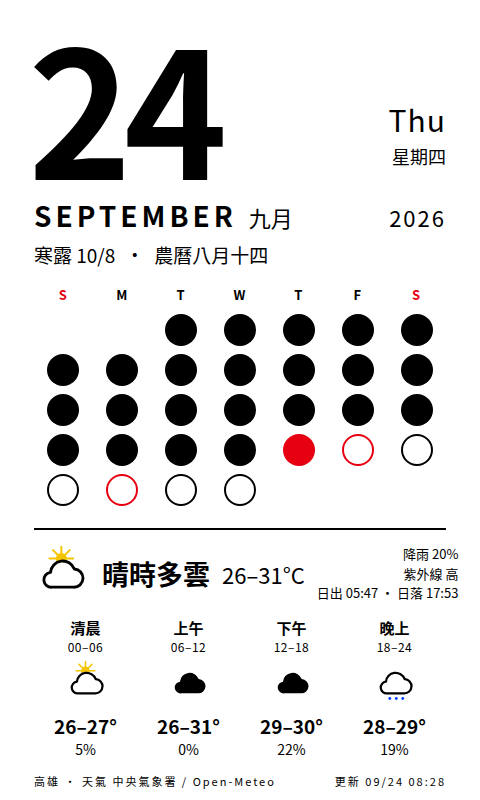
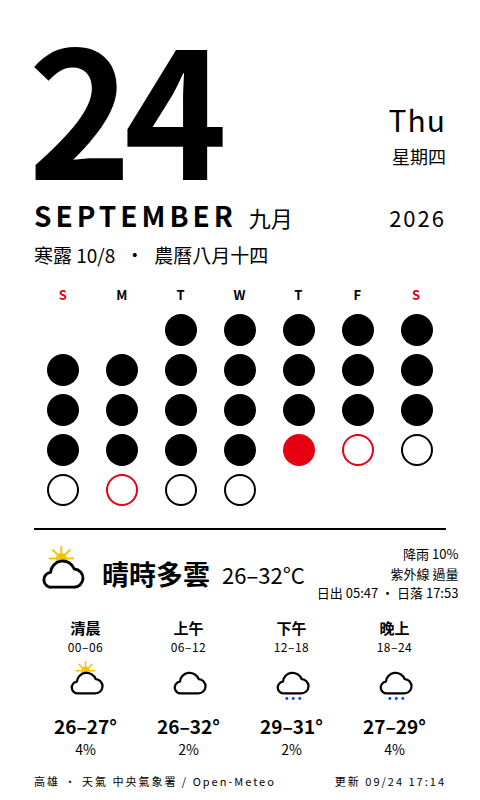
deploy: cf7d1051eb6821bc691ba0ade4beb12cdf9fe0ef

diff --git a/calendar.html b/calendar.html
@@ -54,9 +54,9 @@
   <div class="today"><span class="lunar">寒露 10/8</span><span>·</span><span class="lunar">農曆八月十四</span></div>
   <div class="grid"><div class="h we">S</div><div class="h">M</div><div class="h">T</div><div class="h">W</div><div class="h">T</div><div class="h">F</div><div class="h we">S</div><div class="dot empty"></div><div class="dot empty"></div><div class="dot past" title="1"></div><div class="dot past" title="2"></div><div class="dot past" title="3"></div><div class="dot past" title="4"></div><div class="dot past" title="5"></div><div class="dot past" title="6"></div><div class="dot past" title="7"></div><div class="dot past" title="8"></div><div class="dot past" title="9"></div><div class="dot past" title="10"></div><div class="dot past" title="11"></div><div class="dot past" title="12"></div><div class="dot past" title="13"></div><div class="dot past" title="14"></div><div class="dot past" title="15"></div><div class="dot past" title="16"></div><div class="dot past" title="17"></div><div class="dot past" title="18"></div><div class="dot past" title="19"></div><div class="dot past" title="20"></div><div class="dot past" title="21"></div><div class="dot past" title="22"></div><div class="dot past" title="23"></div><div class="dot now" title="24"></div><div class="dot future hol" title="25"></div><div class="dot future" title="26"></div><div class="dot future" title="27"></div><div class="dot future hol" title="28"></div><div class="dot future" title="29"></div><div class="dot future" title="30"></div></div>
   <div class="wx"><div class="line">
-    <div class="wxhead"><svg viewBox="0 0 64 68" xmlns="http://www.w3.org/2000/svg"><g transform="translate(12 -4) scale(.6)"><circle cx="32" cy="32" r="11" fill="#f5c400"/><g stroke="#f5c400" stroke-width="4" stroke-linecap="round"><line x1="32" y1="32" x2="32" y2="8" transform="rotate(0 32 32)"/><line x1="32" y1="32" x2="32" y2="8" transform="rotate(45 32 32)"/><line x1="32" y1="32" x2="32" y2="8" transform="rotate(90 32 32)"/><line x1="32" y1="32" x2="32" y2="8" transform="rotate(135 32 32)"/><line x1="32" y1="32" x2="32" y2="8" transform="rotate(180 32 32)"/><line x1="32" y1="32" x2="32" y2="8" transform="rotate(225 32 32)"/><line x1="32" y1="32" x2="32" y2="8" transform="rotate(270 32 32)"/><line x1="32" y1="32" x2="32" y2="8" transform="rotate(315 32 32)"/></g></g><path d="M20 50h26a11 11 0 0 0 1-22 15 15 0 0 0-29 4 9 9 0 0 0 2 18z" fill="#fff" stroke="#000" stroke-width="3.5" stroke-linejoin="round"/></svg><span class="desc">晴時多雲</span><span class="temp">26–31°C</span>
-      <div class="meta">降雨 20%<br>紫外線 高<br>日出 05:47 · 日落 17:53</div></div>
-    <div class="slots"><div class="slot"><div class="n">清晨</div><div class="hrs">00–06</div><svg viewBox="0 0 64 68" xmlns="http://www.w3.org/2000/svg"><g transform="translate(12 -4) scale(.6)"><circle cx="32" cy="32" r="11" fill="#f5c400"/><g stroke="#f5c400" stroke-width="4" stroke-linecap="round"><line x1="32" y1="32" x2="32" y2="8" transform="rotate(0 32 32)"/><line x1="32" y1="32" x2="32" y2="8" transform="rotate(45 32 32)"/><line x1="32" y1="32" x2="32" y2="8" transform="rotate(90 32 32)"/><line x1="32" y1="32" x2="32" y2="8" transform="rotate(135 32 32)"/><line x1="32" y1="32" x2="32" y2="8" transform="rotate(180 32 32)"/><line x1="32" y1="32" x2="32" y2="8" transform="rotate(225 32 32)"/><line x1="32" y1="32" x2="32" y2="8" transform="rotate(270 32 32)"/><line x1="32" y1="32" x2="32" y2="8" transform="rotate(315 32 32)"/></g></g><path d="M20 50h26a11 11 0 0 0 1-22 15 15 0 0 0-29 4 9 9 0 0 0 2 18z" fill="#fff" stroke="#000" stroke-width="3.5" stroke-linejoin="round"/></svg><div class="t">26–27°</div><div class="p dry">5%</div></div><div class="slot"><div class="n">上午</div><div class="hrs">06–12</div><svg viewBox="0 0 64 68" xmlns="http://www.w3.org/2000/svg"><path d="M20 50h26a11 11 0 0 0 1-22 15 15 0 0 0-29 4 9 9 0 0 0 2 18z" fill="#000"/></svg><div class="t">26–31°</div><div class="p dry">0%</div></div><div class="slot"><div class="n">下午</div><div class="hrs">12–18</div><svg viewBox="0 0 64 68" xmlns="http://www.w3.org/2000/svg"><path d="M20 50h26a11 11 0 0 0 1-22 15 15 0 0 0-29 4 9 9 0 0 0 2 18z" fill="#000"/></svg><div class="t">29–30°</div><div class="p dry">22%</div></div><div class="slot"><div class="n">晚上</div><div class="hrs">18–24</div><svg viewBox="0 0 64 68" xmlns="http://www.w3.org/2000/svg"><path d="M20 50h26a11 11 0 0 0 1-22 15 15 0 0 0-29 4 9 9 0 0 0 2 18z" fill="#fff" stroke="#000" stroke-width="3.5" stroke-linejoin="round"/><g fill="#0040ff"><circle cx="24" cy="58" r="2.2"/><circle cx="34" cy="58" r="2.2"/><circle cx="44" cy="58" r="2.2"/></g></svg><div class="t">28–29°</div><div class="p dry">19%</div></div></div>
+    <div class="wxhead"><svg viewBox="0 0 64 68" xmlns="http://www.w3.org/2000/svg"><g transform="translate(12 -4) scale(.6)"><circle cx="32" cy="32" r="11" fill="#f5c400"/><g stroke="#f5c400" stroke-width="4" stroke-linecap="round"><line x1="32" y1="32" x2="32" y2="8" transform="rotate(0 32 32)"/><line x1="32" y1="32" x2="32" y2="8" transform="rotate(45 32 32)"/><line x1="32" y1="32" x2="32" y2="8" transform="rotate(90 32 32)"/><line x1="32" y1="32" x2="32" y2="8" transform="rotate(135 32 32)"/><line x1="32" y1="32" x2="32" y2="8" transform="rotate(180 32 32)"/><line x1="32" y1="32" x2="32" y2="8" transform="rotate(225 32 32)"/><line x1="32" y1="32" x2="32" y2="8" transform="rotate(270 32 32)"/><line x1="32" y1="32" x2="32" y2="8" transform="rotate(315 32 32)"/></g></g><path d="M20 50h26a11 11 0 0 0 1-22 15 15 0 0 0-29 4 9 9 0 0 0 2 18z" fill="#fff" stroke="#000" stroke-width="3.5" stroke-linejoin="round"/></svg><span class="desc">晴時多雲</span><span class="temp">26–32°C</span>
+      <div class="meta">降雨 10%<br>紫外線 過量<br>日出 05:47 · 日落 17:53</div></div>
+    <div class="slots"><div class="slot"><div class="n">清晨</div><div class="hrs">00–06</div><svg viewBox="0 0 64 68" xmlns="http://www.w3.org/2000/svg"><g transform="translate(12 -4) scale(.6)"><circle cx="32" cy="32" r="11" fill="#f5c400"/><g stroke="#f5c400" stroke-width="4" stroke-linecap="round"><line x1="32" y1="32" x2="32" y2="8" transform="rotate(0 32 32)"/><line x1="32" y1="32" x2="32" y2="8" transform="rotate(45 32 32)"/><line x1="32" y1="32" x2="32" y2="8" transform="rotate(90 32 32)"/><line x1="32" y1="32" x2="32" y2="8" transform="rotate(135 32 32)"/><line x1="32" y1="32" x2="32" y2="8" transform="rotate(180 32 32)"/><line x1="32" y1="32" x2="32" y2="8" transform="rotate(225 32 32)"/><line x1="32" y1="32" x2="32" y2="8" transform="rotate(270 32 32)"/><line x1="32" y1="32" x2="32" y2="8" transform="rotate(315 32 32)"/></g></g><path d="M20 50h26a11 11 0 0 0 1-22 15 15 0 0 0-29 4 9 9 0 0 0 2 18z" fill="#fff" stroke="#000" stroke-width="3.5" stroke-linejoin="round"/></svg><div class="t">26–27°</div><div class="p dry">4%</div></div><div class="slot"><div class="n">上午</div><div class="hrs">06–12</div><svg viewBox="0 0 64 68" xmlns="http://www.w3.org/2000/svg"><path d="M20 50h26a11 11 0 0 0 1-22 15 15 0 0 0-29 4 9 9 0 0 0 2 18z" fill="#fff" stroke="#000" stroke-width="3.5" stroke-linejoin="round"/></svg><div class="t">26–32°</div><div class="p dry">2%</div></div><div class="slot"><div class="n">下午</div><div class="hrs">12–18</div><svg viewBox="0 0 64 68" xmlns="http://www.w3.org/2000/svg"><path d="M20 50h26a11 11 0 0 0 1-22 15 15 0 0 0-29 4 9 9 0 0 0 2 18z" fill="#fff" stroke="#000" stroke-width="3.5" stroke-linejoin="round"/><g fill="#0040ff"><circle cx="24" cy="58" r="2.2"/><circle cx="34" cy="58" r="2.2"/><circle cx="44" cy="58" r="2.2"/></g></svg><div class="t">29–31°</div><div class="p dry">2%</div></div><div class="slot"><div class="n">晚上</div><div class="hrs">18–24</div><svg viewBox="0 0 64 68" xmlns="http://www.w3.org/2000/svg"><path d="M20 50h26a11 11 0 0 0 1-22 15 15 0 0 0-29 4 9 9 0 0 0 2 18z" fill="#fff" stroke="#000" stroke-width="3.5" stroke-linejoin="round"/><g fill="#0040ff"><circle cx="24" cy="58" r="2.2"/><circle cx="34" cy="58" r="2.2"/><circle cx="44" cy="58" r="2.2"/></g></svg><div class="t">27–29°</div><div class="p dry">4%</div></div></div>
   </div></div>
-  <div class="foot"><span>高雄 · 天氣 中央氣象署 / Open-Meteo</span><span>更新 09/24 08:28</span></div>
+  <div class="foot"><span>高雄 · 天氣 中央氣象署 / Open-Meteo</span><span>更新 09/24 17:14</span></div>
 </div></body></html>
